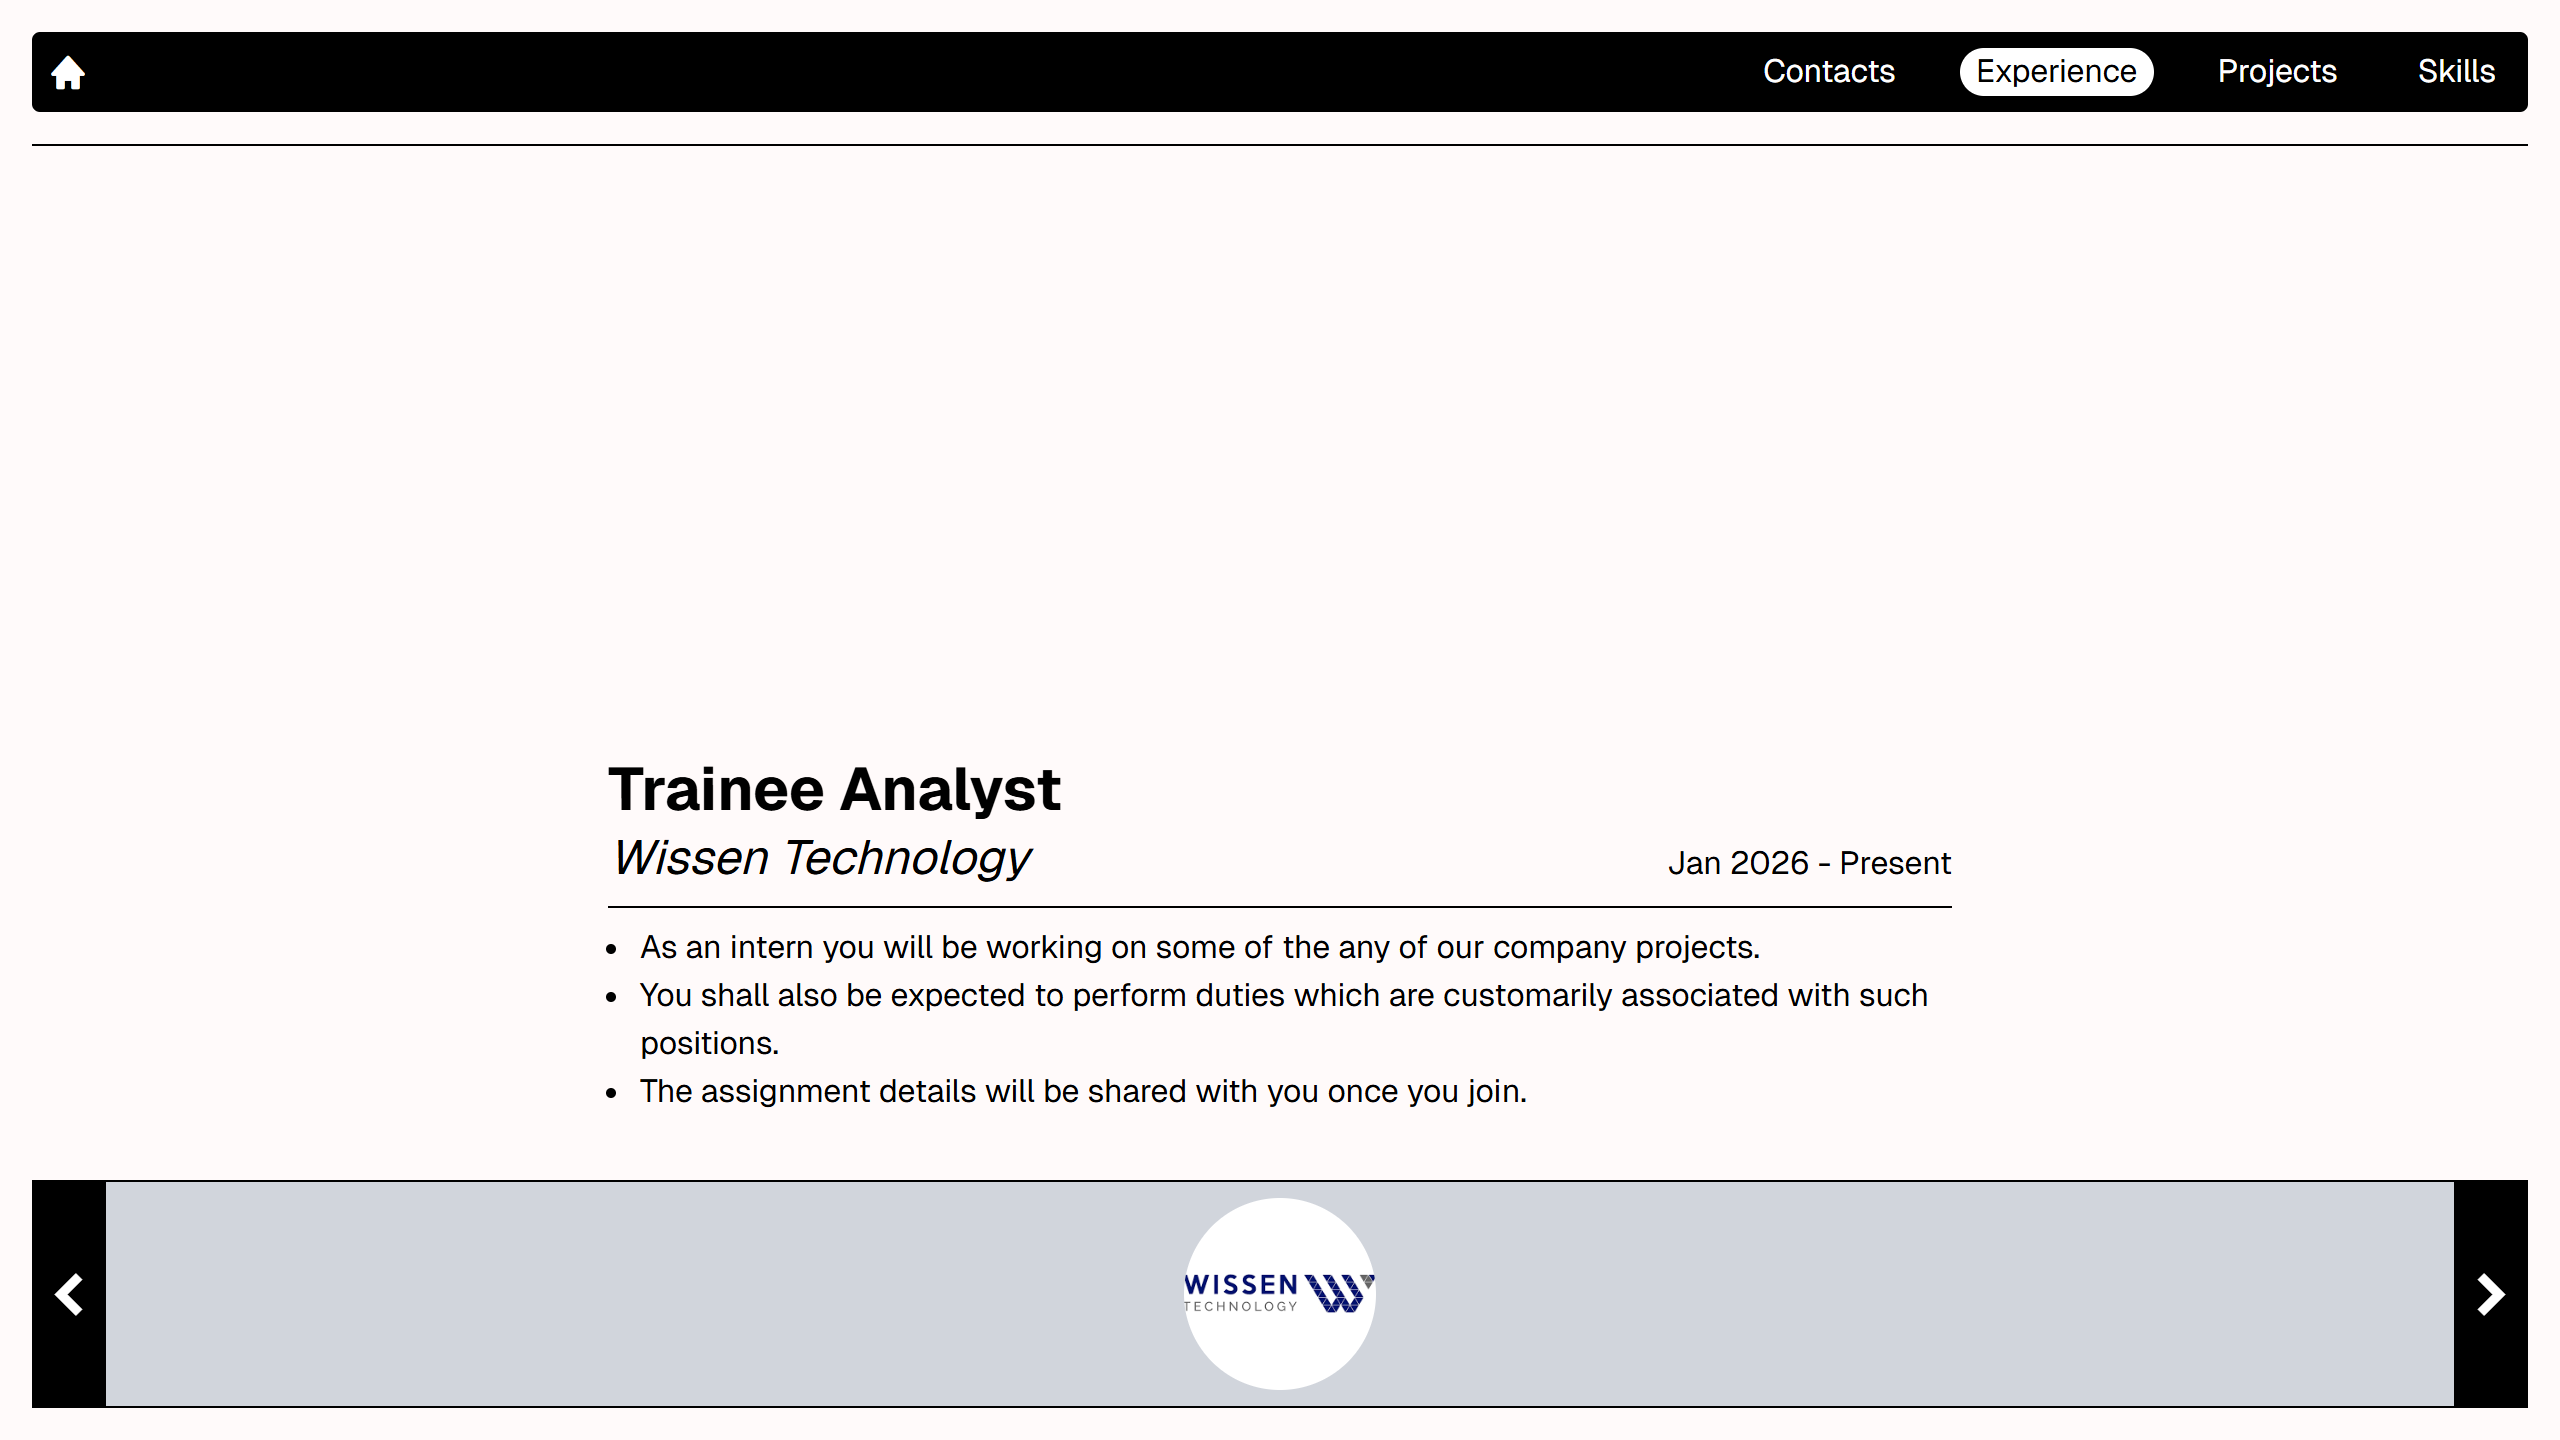
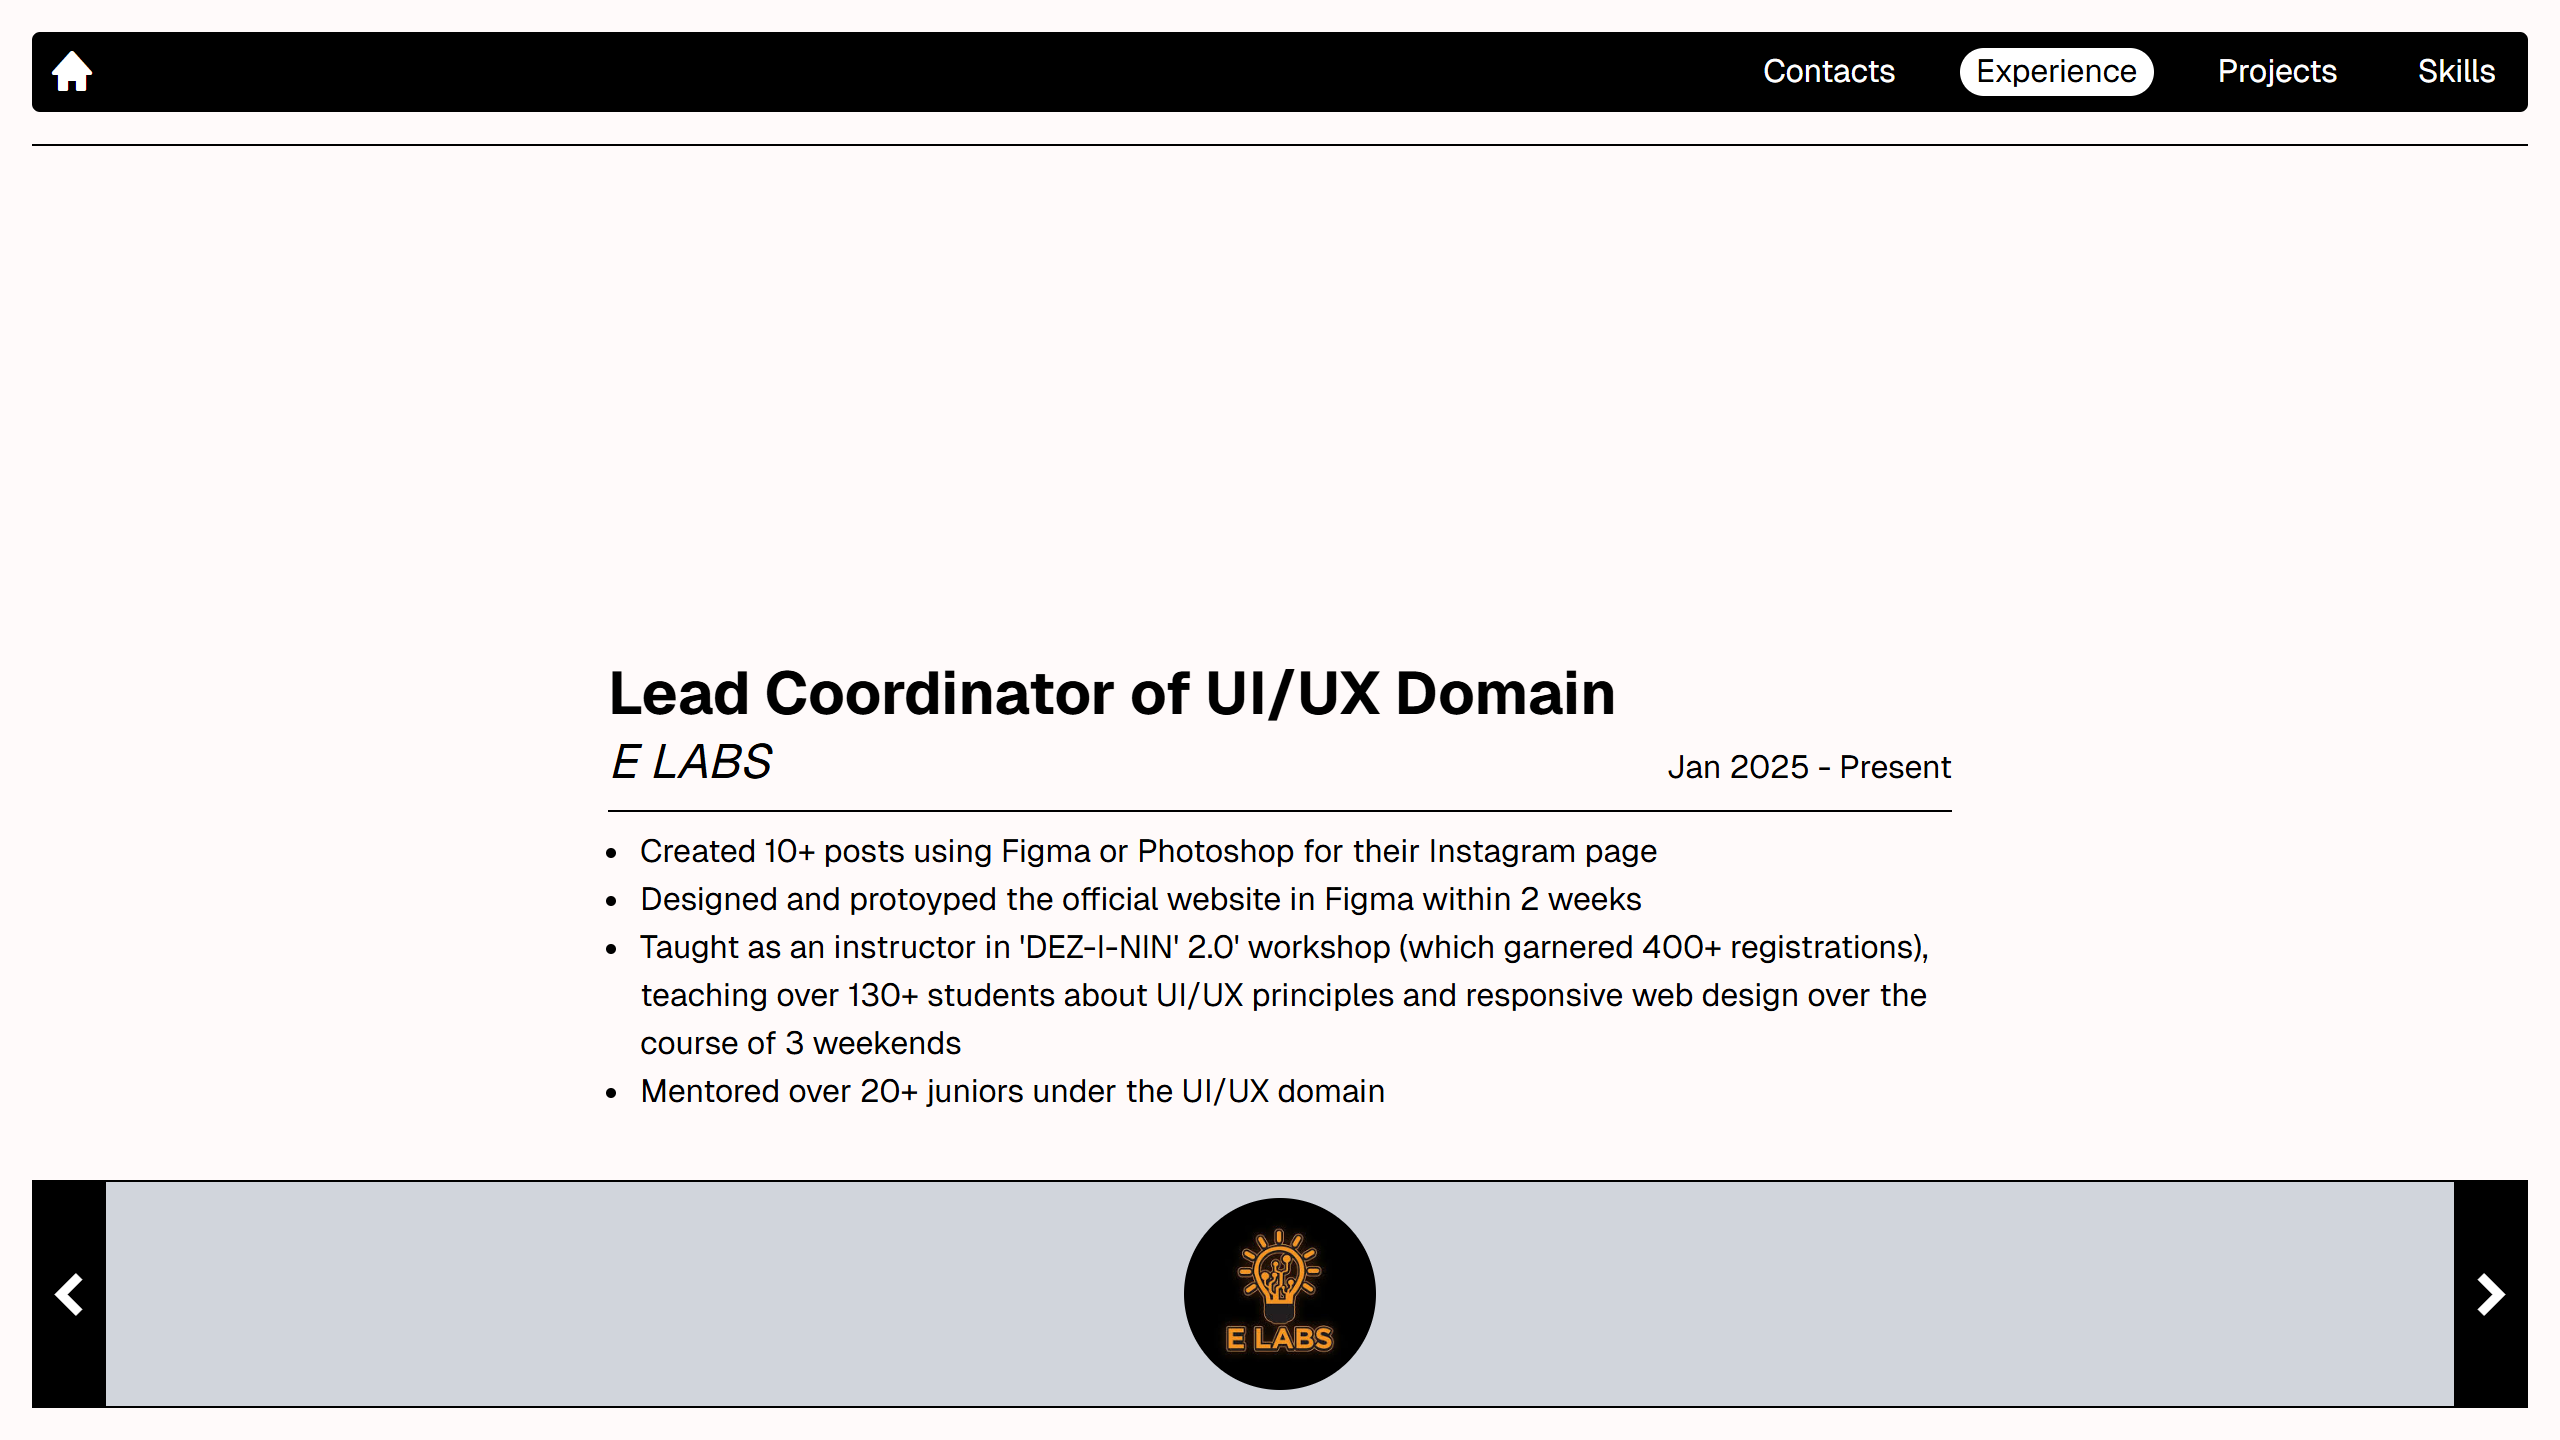
update project and updating router

diff --git a/src/components/Projects/Project.vue b/src/components/Projects/Project.vue
@@ -78,7 +78,7 @@
                 'bx bx-dots-horizontal-rounded rounded-full hover:bg-slate-500/20 cursor-pointer',
                 selectedProject === project ? 'bg-slate-500/40' : '',
               ]"
-              @click="toggleExtra(project)"
+              @click.stop="toggleExtra(project)"
             ></i>
           </div>
         </div>
@@ -101,7 +101,7 @@
       <div
         v-for="project in processedProjects"
         :key="project.id"
-        @click="toggleExtra(project)"
+        @click.stop="toggleExtra(project)"
         class="flex justify-between items-center p-2 border-b border-black/30 hover:bg-slate-500/10 cursor-pointer"
       >
         <div class="flex items-center gap-4">
@@ -130,7 +130,7 @@
       </div>
     </section>
   </section>
-  <Extra :selectExtra="selectedProject" @close="selectedProject = null" />
+  <Extra :selectExtra="selectedProject" @close="closeExtra" />
 </template>
 
 <script>
@@ -173,9 +173,22 @@ export default {
     async getProjects() {
       try {
         this.projects = await ProjectService.getProjects();
+        this.syncProjectFromRoute();
       } catch (error) {
         console.error("Error fetching projects:", error);
       }
+    },
+
+    syncProjectFromRoute() {
+      const id = Number(this.$route.params.id);
+
+      if (!id) {
+        this.selectedProject = null;
+        return;
+      }
+
+      this.selectedProject =
+        this.projects.find((project) => project.id === id) || null;
     },
 
     toggleSort() {
@@ -188,7 +201,15 @@ export default {
     },
 
     toggleExtra(project) {
-      this.selectedProject = this.selectedProject === project ? null : project;
+      if (this.selectedProject?.id === project.id) {
+        this.closeExtra();
+      } else {
+        this.$router.push(`/projects/${project.id}`);
+      }
+    },
+
+    closeExtra() {
+      this.$router.push("/projects");
     },
   },
 
@@ -215,15 +236,21 @@ export default {
         this.grid = true;
         localStorage.removeItem("gridView");
       }
-    } else {
-      this.grid = true;
     }
   },
 
   watch: {
+    "$route.params.id": {
+      immediate: true,
+      handler() {
+        this.syncProjectFromRoute();
+      },
+    },
+
     sortConfig(val) {
       localStorage.setItem("sort", JSON.stringify(val));
     },
+
     grid(val) {
       localStorage.setItem("gridView", JSON.stringify(val));
     },

diff --git a/src/router/index.js b/src/router/index.js
@@ -6,18 +6,21 @@ import Contacts from "../components/Contacts/Contacts.vue";
 
 const routes = [
     {
-        path: '/projects',
+        path: '/projects/:id?',
         name: 'Projects',
         component: Project
-    }, {
+    },
+    {
         path: '/skills',
         name: 'Skills',
         component: Skills
-    }, {
+    },
+    {
         path: '/contacts',
         name: 'Contacts',
         component: Contacts
-    }, {
+    },
+    {
         path: '/experience',
         name: 'Experience',
         component: Experience
@@ -25,7 +28,7 @@ const routes = [
 ]
 
 const router = createRouter({
-    history: createWebHistory(''),
+    history: createWebHistory(),
     routes
 })
 

diff --git a/src/components/Skills/Info.vue b/src/components/Skills/Info.vue
@@ -1,7 +1,7 @@
 <template>
   <section
     v-if="selectedSkill"
-    class="fixed bottom-4 right-4 w-xs bg-white shadow-lg border rounded p-4"
+    class="fixed bottom-4 right-4 w-xs bg-white shadow-2xl border rounded p-4"
   >
     <div class="flex items-center justify-between mb-2">
       <div class="flex items-center gap-4">
@@ -16,7 +16,12 @@
 
     <ul v-if="filteredProjects.length" class="list-decimal list-inside">
       <li v-for="project in filteredProjects" :key="project.id">
-        {{ project.title }}
+        <router-link
+          class="hover:underline cursor-pointer"
+          :to="`/projects/${project.id}`"
+        >
+          {{ project.title }}
+        </router-link>
       </li>
     </ul>
 

diff --git a/src/components/Projects/Extra.vue b/src/components/Projects/Extra.vue
@@ -50,7 +50,7 @@ import ImgSet from "./ImgSet.vue";
 export default {
   name: "Extra",
   props: {
-    selectExtra: Object,
+    selectExtra: { type: Object, default: null },
   },
   components: { ImgSet },
   computed: {
@@ -58,10 +58,9 @@ export default {
       return this.selectExtra || {};
     },
     filteredKeys() {
-      const obj = this.selectExtra || {};
       return Object.fromEntries(
-        Object.entries(obj).filter(
-          ([key, val]) => Array.isArray(val) && key !== "carousel",
+        Object.entries(this.project).filter(
+          ([key, value]) => Array.isArray(value) && key !== "carousel",
         ),
       );
     },

diff --git a/src/components/Skills/Skills.vue b/src/components/Skills/Skills.vue
@@ -10,7 +10,7 @@
           v-for="item in skill.list"
           :key="item.name"
           :class="[
-            'px-4 py-2 rounded-full shrink-0 flex items-center gap-2 text-sm cursor-pointer',
+            'px-4 py-2 rounded-full shrink-0 flex items-center gap-2 text-sm cursor-pointer select-none',
             selectedSkill?.name === item.name
               ? 'bg-black text-white'
               : 'bg-gray-300 text-black',